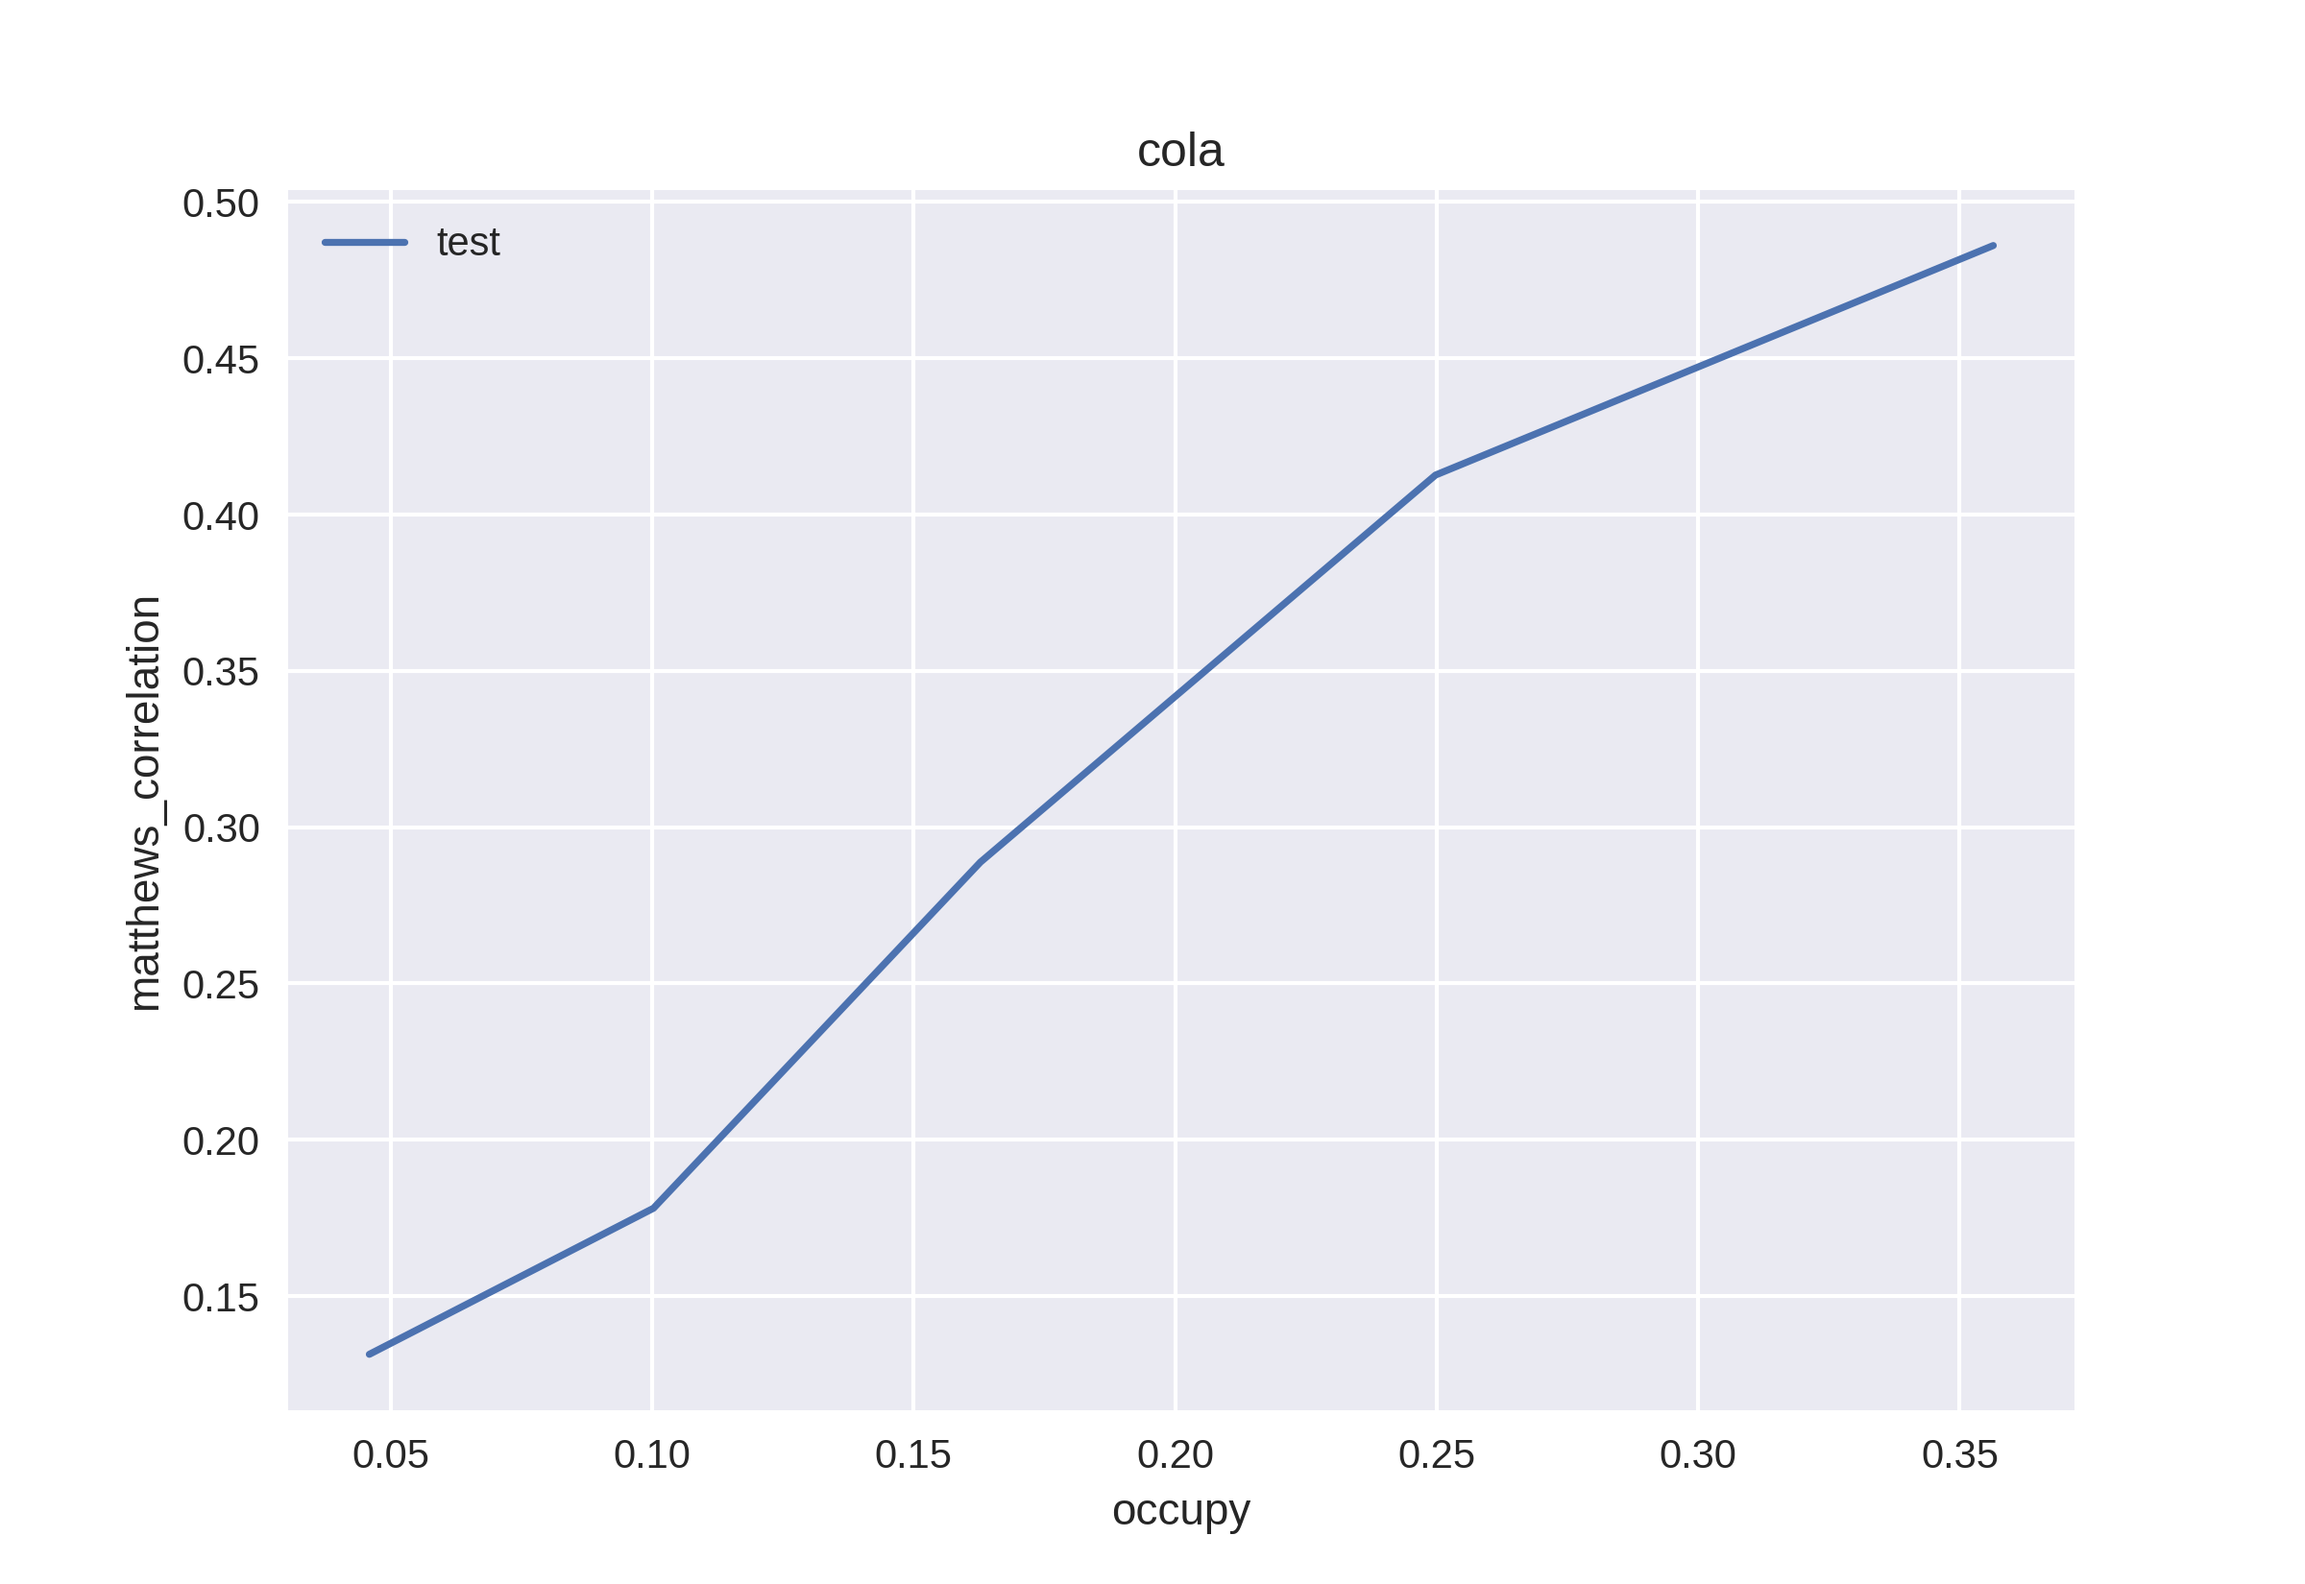
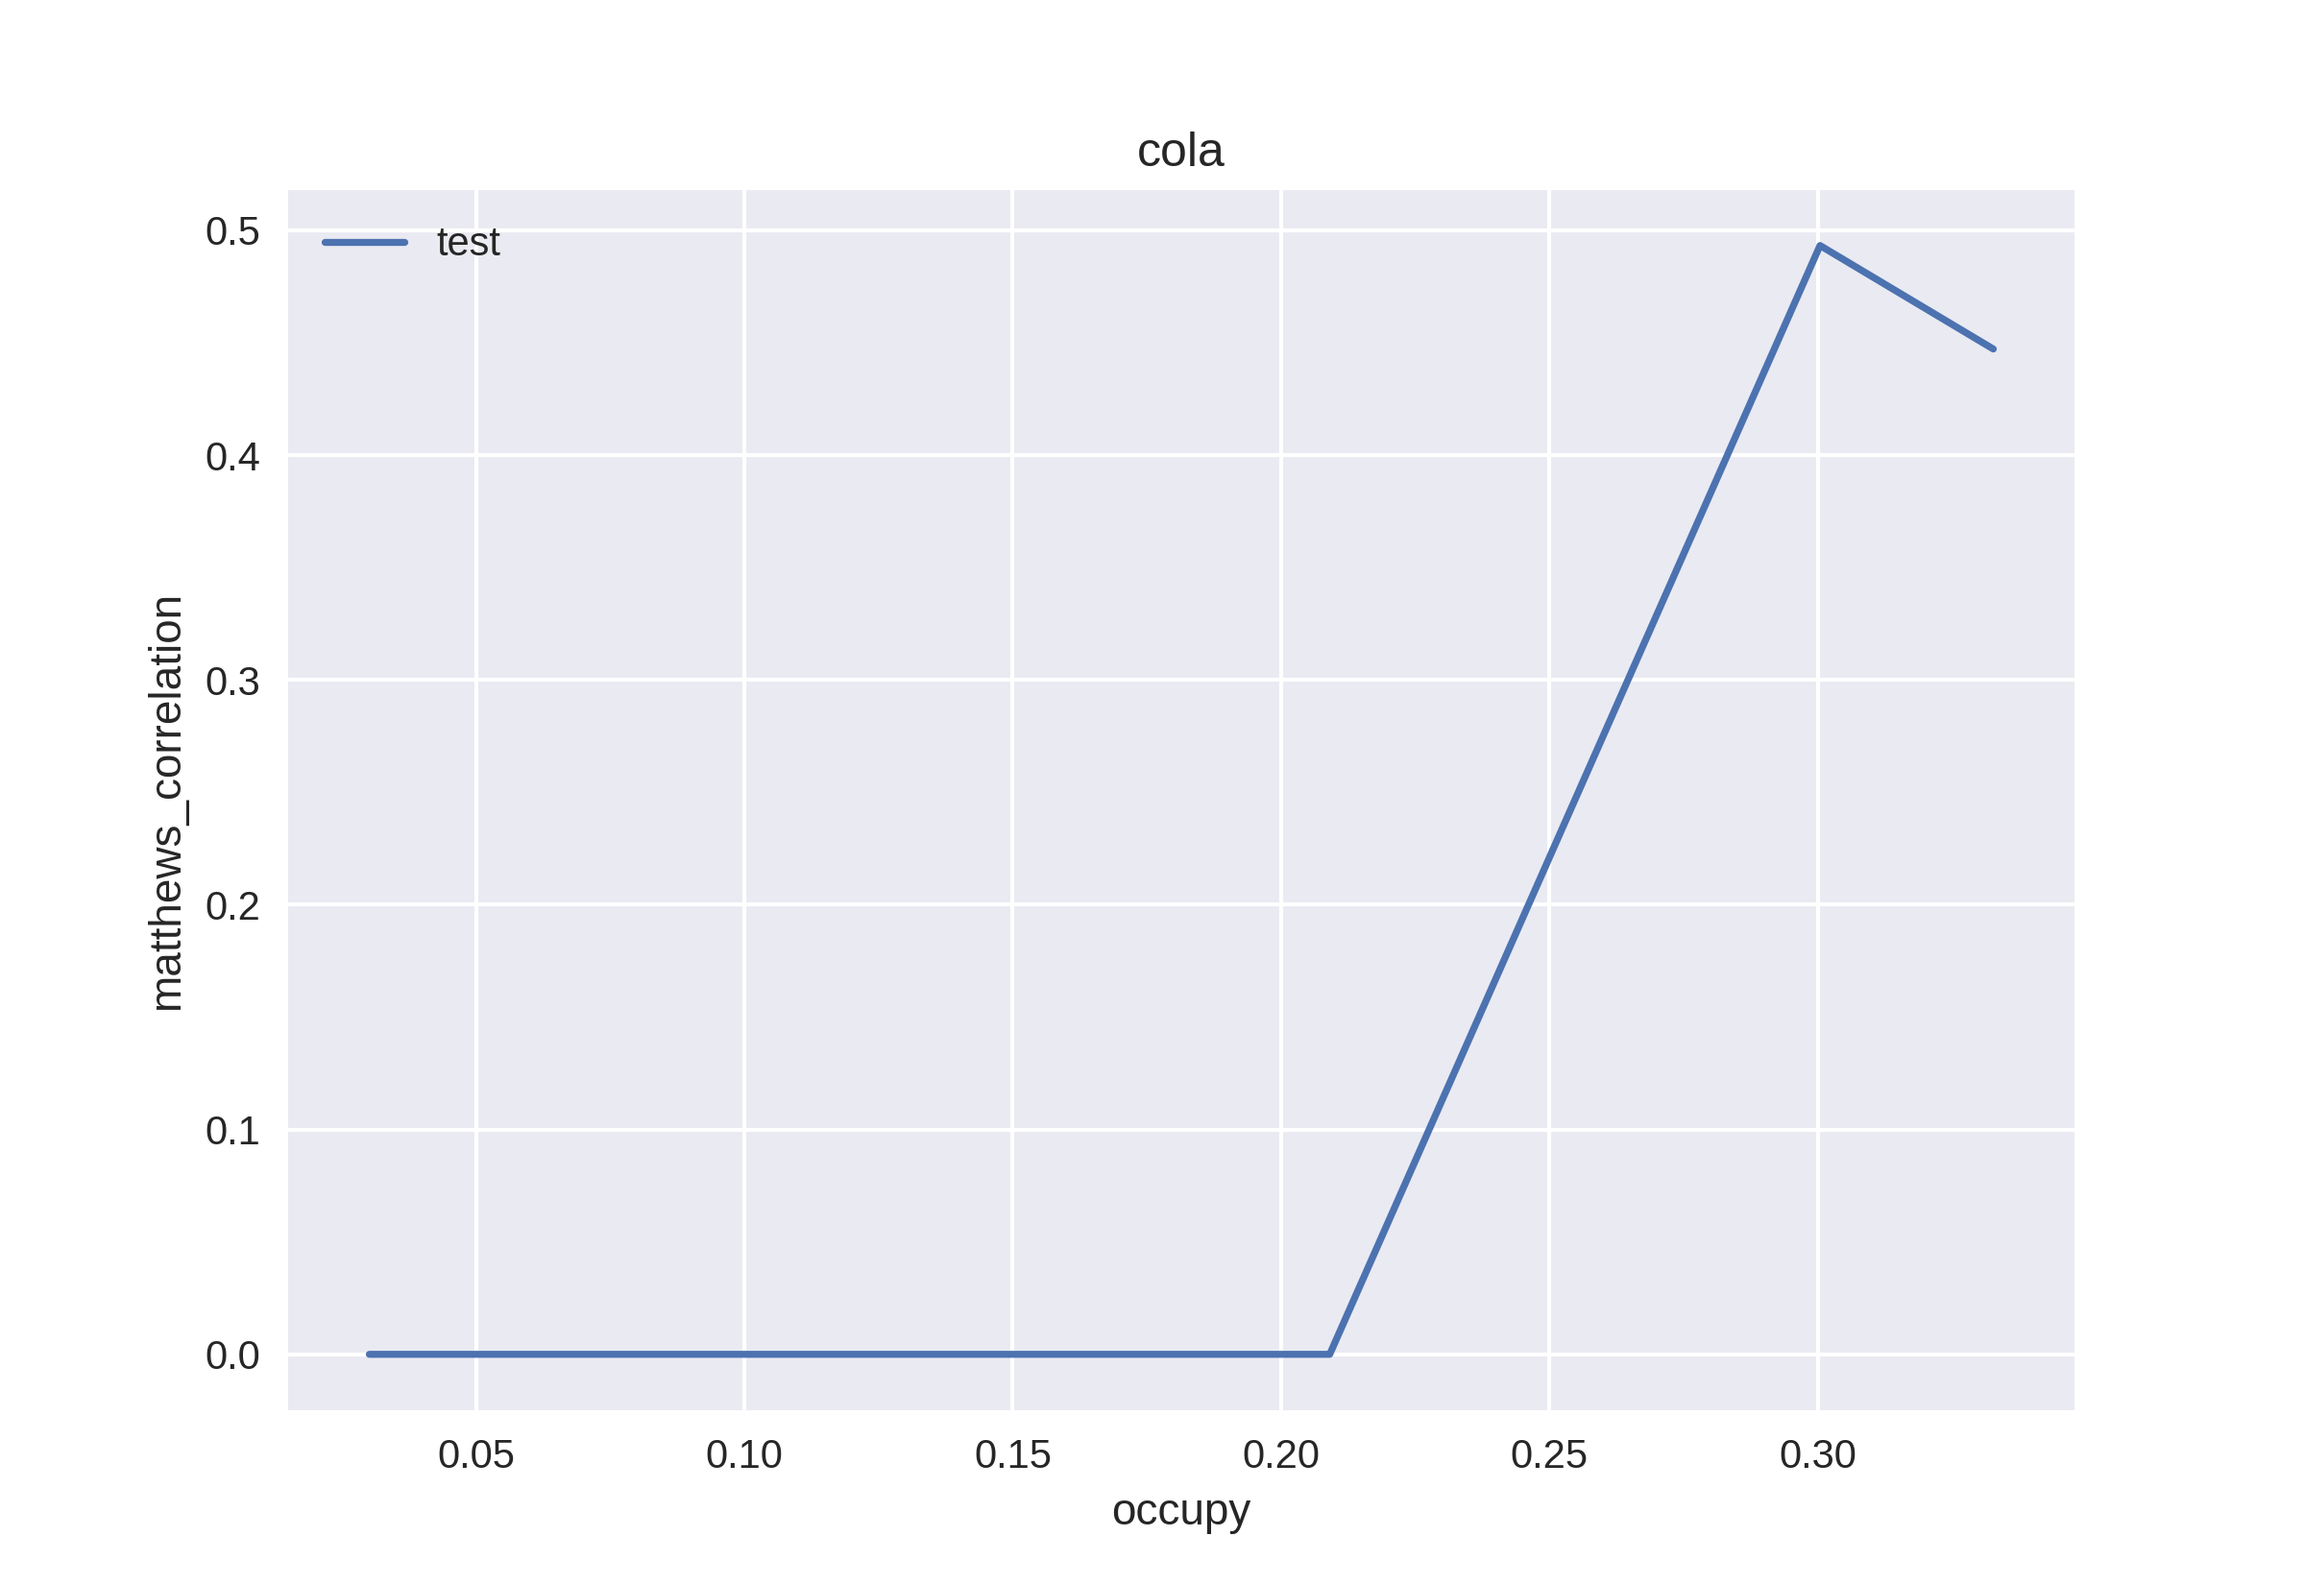
error on cola graph

diff --git a/models/sparse_token.py b/models/sparse_token.py
@@ -1461,21 +1461,20 @@ def run_bert_with_concrete(
                 concrete_score = concrete_score / (torch.max(concrete_score, dim=1, keepdim=True)[0] + EPS)
             elif concrete_score_mode == 'score_uniform':
                 #concrete_score should be unifrom distribution
-                att_mask = raise_if_nan(layer.attention.self.last_attention_mask)
-                onehot_att_mask = (att_mask > -1) * 1.0
-                att_score = raise_if_nan(layer.attention.self.last_attention_scores)
+                att_mask = layer.attention.self.last_attention_mask
+                N, T = input_dict['attention_mask'].shape
+                onehot_att_mask = input_dict['attention_mask'].view(N, 1, 1, T) #N,T -> N, 1, 1, T
+                onehot_att_mask_sum = torch.sum(onehot_att_mask, dim=-1, keepdim=True)
+                att_score = layer.attention.self.last_attention_scores #N, H, T, T
                 att_score_masked = att_score * onehot_att_mask
-                att_score_mean = torch.sum(att_score_masked, dim=-1, keepdim=True) / (torch.sum(onehot_att_mask, dim=-1, keepdim=True) + EPS)
-                #att_score_mean_of_square = torch.sum(att_score_masked * att_score_masked, dim=-1, keepdim=True) / (torch.sum(onehot_att_mask, dim=-1, keepdim=True) + EPS)
-                att_score_var = torch.sum(torch.square((att_score_masked - att_score_mean) * onehot_att_mask), dim=-1, keepdim=True) / (torch.sum(onehot_att_mask, dim=-1, keepdim=True) + EPS)
-                #att_score_std = torch.sqrt(att_score_mean_of_square - att_score_mean*att_score_mean + EPS)
+                att_score_mean = torch.sum(att_score_masked, dim=-1, keepdim=True) / (onehot_att_mask_sum + EPS)
+                att_score_var = torch.sum(torch.square((att_score_masked - att_score_mean) * onehot_att_mask), dim=-1, keepdim=True) / (onehot_att_mask_sum + EPS)
                 att_score_std = torch.sqrt(att_score_var)
-                #raise_if_nan(att_score_std)
                 std_att_score = (att_score - att_score_mean) / (att_score_std + EPS)
                 std_att_score = torch.mean(std_att_score, dim=1)
                 std_att_score = torch.mean(std_att_score, dim=1)
-                uni_att_score = torch.sigmoid(raise_if_nan(std_att_score)) #torch.distributions.Normal(0, 1).cdf(std_att_score)
-                uni_att_score = 0.1 + 0.9 * uni_att_score * (score > EPS)
+                uni_att_score = STANDARD_NORMAL_DISTRIBUTION.cdf(std_att_score) #torch.distributions.Normal(0, 1).cdf(std_att_score)
+                uni_att_score = (0.05 + 0.95 * uni_att_score) * input_dict['attention_mask']
                 concrete_score = uni_att_score
             else:
                 raise Exception()
